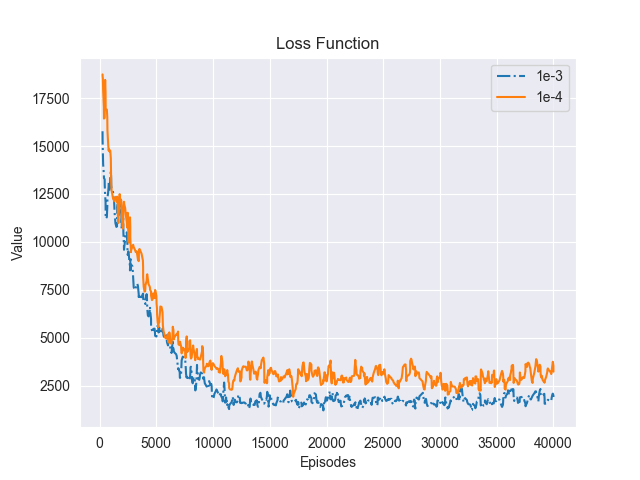
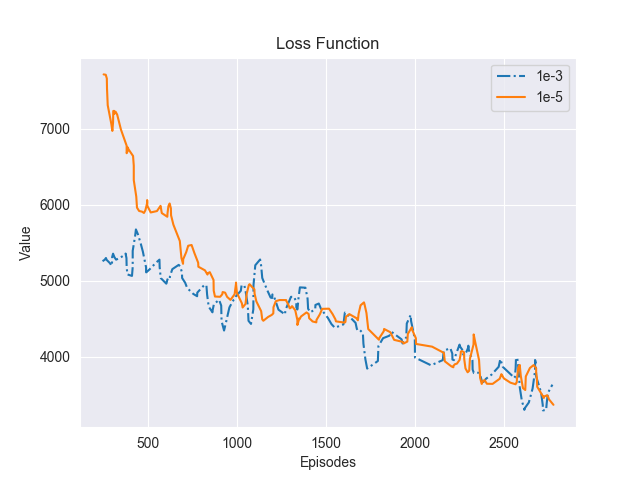
draw loss

diff --git a/plots/plot_graphs.py b/plots/plot_graphs.py
@@ -39,7 +39,7 @@ def plot_bars():
     plt.show()
 
 
-plot_bars()
+#plot_bars()
 
 
 def draw_comparisons():
@@ -87,14 +87,14 @@ def draw_losses():
     fig = plt.figure()
     # legends = []
     # files = glob.glob("../data/reward-lr-0.001-*.csv")
-    files = ['../data/reward.csv', '../data/reward-r.csv']
+    files = ['../data/loss-r.csv', '../data/loss-rms-1e-5.csv']
 
     x = []
     y = []
     for i, file in enumerate(files):
         # draw_picture(file)
         df = pd.read_csv(file)
-        df1 = df[:1000]
+        df1 = df[:200]
         print(df1.shape)
         x.append(df1['Step'])
         y1 = df1['Value']
@@ -108,8 +108,8 @@ def draw_losses():
         # # plt.legend("lr-" + str(m.group(1)))
         # sns.lineplot(x,ysm)
 
-    plt.plot(x[0], y[0], linestyle='-.', label='1e-4')
-    plt.plot(x[1], y[1], linestyle='-', label='1e-4 v2')
+    plt.plot(x[0], y[0], linestyle='-.', label='1e-3')
+    plt.plot(x[1], y[1], linestyle='-', label='1e-5')
     # plt.plot(x[2], y[2], linestyle='--', label='1e-5')
     # plt.plot(x[3], y[3], linestyle='-', label='0.00001-100')
     # plt.plot(x[4], y[4], linestyle='-.', label='Cloud')
@@ -118,23 +118,10 @@ def draw_losses():
     plt.xlabel("Episodes")
     plt.ylabel("Value")
     plt.title("Loss Function")
-    # plt.savefig("loss-comparison.png")
+    plt.savefig("loss-comparison.png")
     plt.show()
-
-
-def state_generation():
-    df1 = pd.read_csv('../data/state-trace.csv')
-    df2 = pd.read_csv('../data/state-trace-0.01.csv')
-    df3 = pd.read_csv('../data/state-trace-0.01-n.csv')
-    df4 = pd.read_csv('../data/state-trace-0.001.csv')
-    df5 = pd.read_csv('../data/state-trace-0.001-n.csv')
-    df6 = pd.concat([df1, df2, df3, df4, df5], sort=False)
-    # df.to_csv('../data/states.csv', index=False)
-    df6 = df6.drop_duplicates()
-    print(df6.shape)
-    df6.to_csv("../data/states.csv", header=False, index=False)
 
 # draw_picture()
 # draw_comparisons()
 # state_generation()
-#draw_losses()
+draw_losses()
